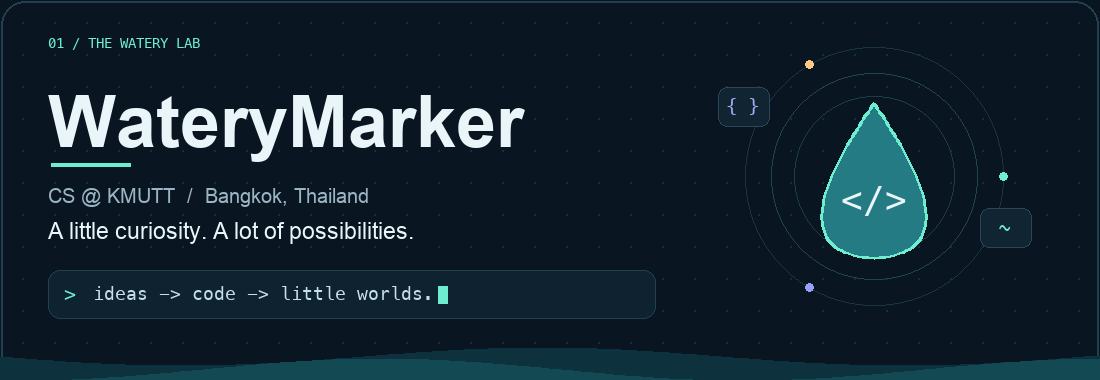
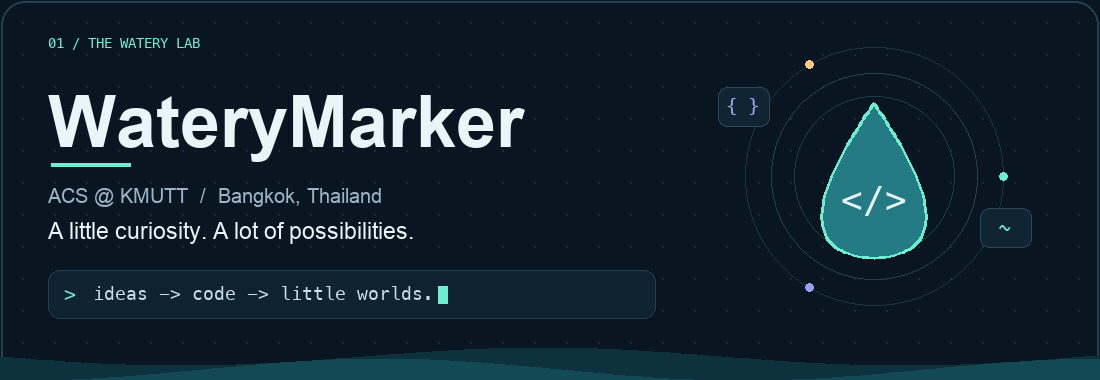
fix: correct major to Applied Computer Science (ACS)

Changed region(s): [[0.0309, 0.4921, 0.34, 0.55]]

diff --git a/README.md b/README.md
@@ -9,7 +9,7 @@
 </p>
 
 <p align="center"><b>Haloooooo 👋 I'm WateryMarker.</b><br />
-A computer science student at <b>KMUTT</b>, based in <b>Bangkok, Thailand</b>.<br />
+An Applied Computer Science (ACS) student at <b>KMUTT</b>, based in <b>Bangkok, Thailand</b>.<br />
 From useful websites to playful AI apps and tiny simulated worlds.</p>
 
 ### 01 / A few things I've built
